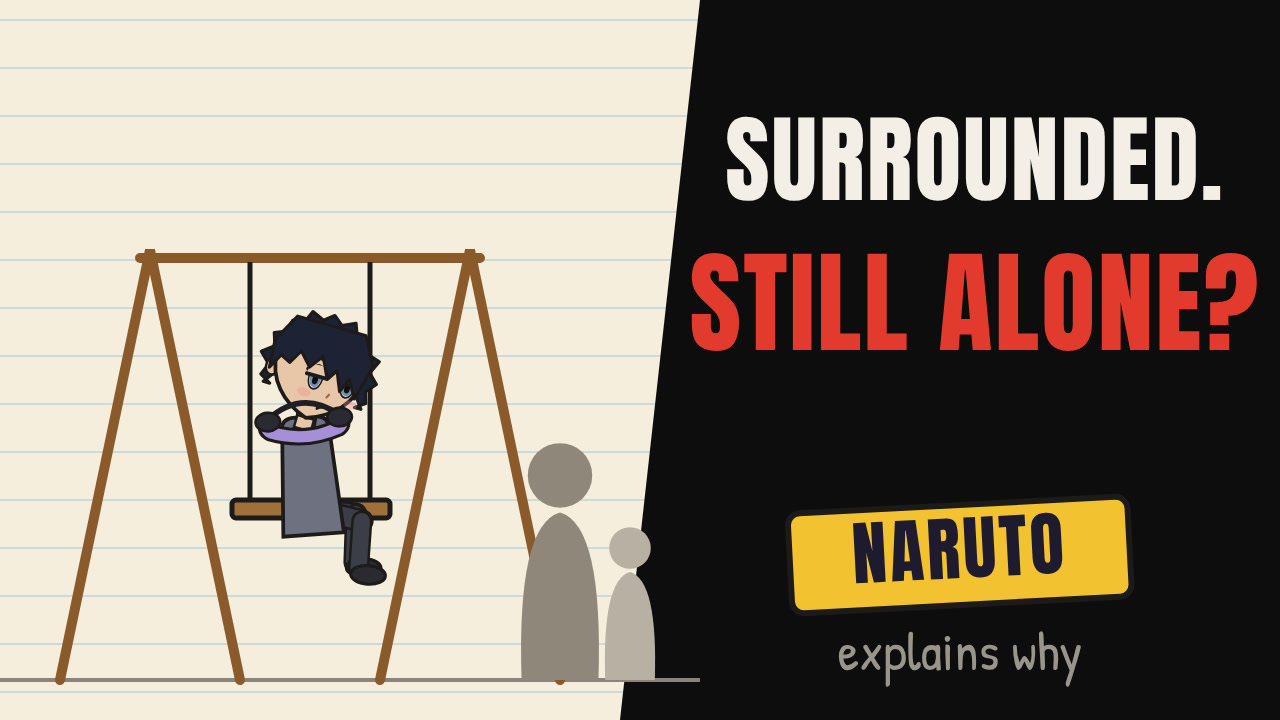
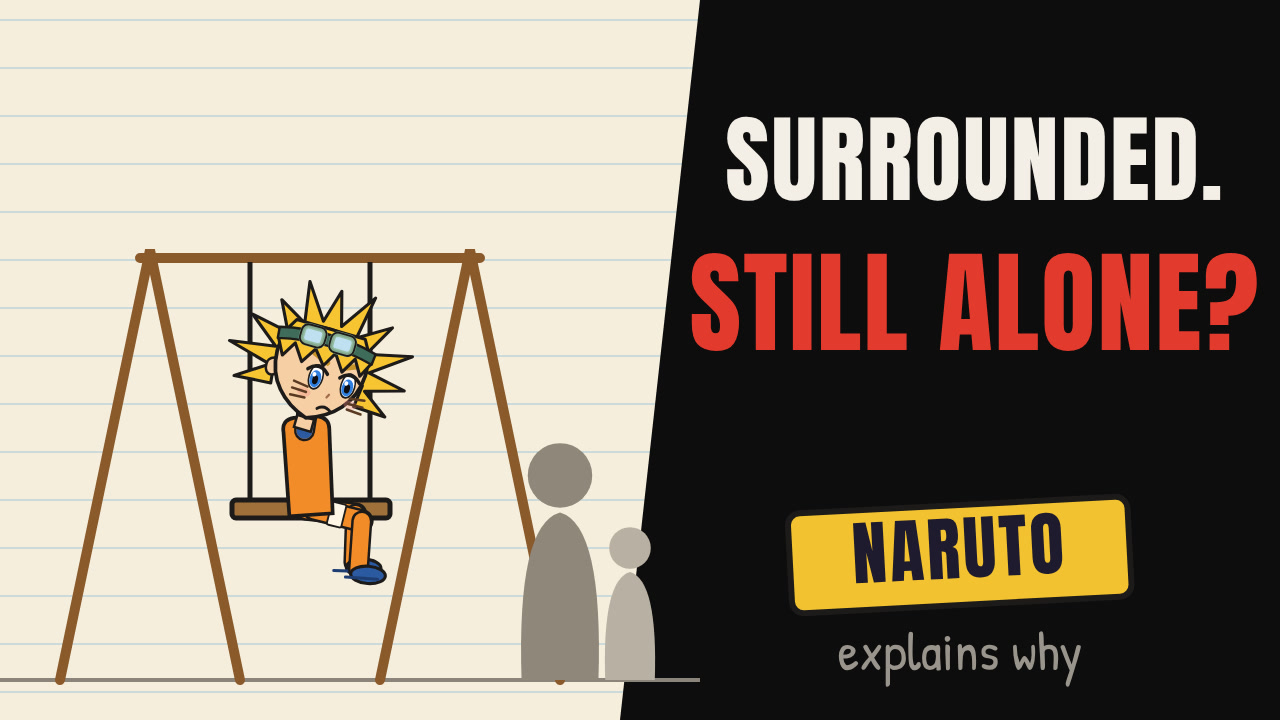
Social Ripple: anime characters for referenced moments, crew for conclusions; Naruto cast + cover
Claude-Session: https://claude.ai/code/session_01BFgAxmP7ubruifvaTKx5Vg

Changed region(s): [[0.1875, 0.3972, 0.3125, 0.825]]

diff --git a/research/meta-muse/social-ripple/shorts/kit/cast.js b/research/meta-muse/social-ripple/shorts/kit/cast.js
@@ -14,6 +14,11 @@
       nia: { skin: "#A8714E", hair: "#231813", hairStyle: "braidbun", top: "#EFE6D6", top2: "#D9CDB8", pants: "#6E8FB8", shoe: "#F4F4F0", eye: "#4A2E1E", glasses: true, lash: true, halfzip: true, wide: true, chunky: true },
       kai: { skin: "#C98E62", hair: "#1E1612", hairStyle: "fade", top: "#7A8B5A", top2: "#66764A", pants: "#2E2E33", shoe: "#F4F4F0", eye: "#5A3A1E", brows: "thick", hood: true, hoodie: true, cargo: true, chunky: true, wide: true },
       mo: { skin: "#E8C7A8", hair: "#2A2230", hairStyle: "curtain", top: "#2A2A30", top2: "#1E1E24", pants: "#3D5A80", shoe: "#F4F4F0", eye: "#6F8FAF", phones: true, tired: true, hood: true, vest: "#8A93A6", wide: true, chunky: true },
+      // anime characters (drawn in our style) for the moments a lesson references them
+      naruto: { skin: "#F6CFA4", hair: "#F7C531", hairStyle: "naruto", top: "#F28C28", top2: "#2C5AA0", pants: "#F28C28", shoe: "#2C5AA0", sole: "#1E3E73", eye: "#2F7FE0", whiskers: true, narutoJacket: true, holster: true, accs: ["goggles", "band"], acc: "goggles", brows: "thick", browCol: "#C9962A" },
+      iruka: { skin: "#D9A679", hair: "#5A3A28", hairStyle: "topknot", top: "#2C3E63", top2: "#22304E", pants: "#2C3E63", shoe: "#2C5AA0", sole: "#1E3E73", eye: "#3A2A1E", noseScar: true, flak: "#6B8E4E", accs: ["band"], acc: "band" },
+      gaara: { skin: "#F3DCC8", hair: "#A8322A", hairStyle: "gaara", top: "#3A2A2E", top2: "#2A1E22", pants: "#3A2A2E", shoe: "#2A2A30", sole: "#1E1E24", eye: "#7FC8B8", rings: true, noBrows: true, kanji: true, sash: true, gourd: true },
+      haku: { skin: "#F8E4D4", hair: "#2A2020", hairStyle: "hakulong", top: "#E8A6B8", top2: "#C97A92", pants: "#8A5A4A", shoe: "#5A3A2A", sole: "#3A2A22", eye: "#5A3A2A", lash: true, coat: true, kimono: true },
       rue: { skin: "#F6D2B4", hair: "#6B3A22", hairStyle: "pony", top: "#F28C6A", top2: "#E07A58", pants: "#7F9CC8", shoe: "#F4F4F0", sole: "#C8A070", eye: "#3E8E5A", freckles: true, bandage: true, puffer: true, wide: true },
     };
     const POSES = {
@@ -36,11 +41,13 @@
       // ---- legs (hip at 0,0; feet at y=+170)
       const legs = [-1, 1].map((d) => { const th = limb(body, d * 24, 0, 80, c.wide ? 36 : 30, c.pants); const sh = limb(th.j, 0, 80, 78, c.wide ? 34 : 26, c.pants);
         if (c.cargo) el("rect", { x: d > 0 ? 8 : -26, y: 30, width: 18, height: 26, rx: 3, fill: c.pants, stroke: "#55555E", "stroke-width": 3 }, th.g);
+        if (c.holster && d > 0) th.g.insertBefore(el("rect", { x: -19, y: 26, width: 38, height: 24, rx: 3, fill: "#FFF6E6", stroke: INK, "stroke-width": 3 }), th.j);
         const shoe = el("ellipse", { cx: d * 6, cy: 86, rx: c.chunky ? 33 : 28, ry: c.chunky ? 18 : 14, fill: c.shoe, stroke: INK, "stroke-width": 5 }, sh.j);
         el("path", { d: `M${d * 6 - (c.chunky ? 31 : 26)},${92} h${c.chunky ? 62 : 52}`, stroke: c.sole || "#CFC6B4", "stroke-width": c.chunky ? 7 : 5, "stroke-linecap": "round" }, sh.j); return { th, sh, d, shoe }; });
       // ---- torso group (pivot at hip)
       const torso = G(body);
       if (c.hood) el("path", { d: "M-46,-150 Q0,-120 46,-150 Q30,-110 0,-108 Q-30,-110 -46,-150 Z", fill: c.top2, stroke: INK, "stroke-width": 5 }, torso);
+      if (c.gourd) { el("ellipse", { cx: 44, cy: -92, rx: 46, ry: 84, fill: "#C9A66B", stroke: INK, "stroke-width": 6, transform: "rotate(18 44 -92)" }, torso); el("ellipse", { cx: 74, cy: -178, rx: 22, ry: 26, fill: "#C9A66B", stroke: INK, "stroke-width": 5 }, torso); el("rect", { x: 64, y: -214, width: 18, height: 16, rx: 3, fill: "#8A5A2B", stroke: INK, "stroke-width": 3 }, torso); }
       const tFront = c.coat ? el("path", { d: "M-60,-130 Q-64,-146 -42,-148 L42,-148 Q64,-146 60,-130 L74,40 L-74,40 Z", fill: c.top, stroke: INK, "stroke-width": 6 }, torso)
         : el("path", { d: "M-58,-128 Q-60,-146 -40,-148 L40,-148 Q60,-146 58,-128 L52,8 L-52,8 Z", fill: c.top, stroke: INK, "stroke-width": 6 }, torso);
       const tSide = el("path", { d: c.coat ? "M-36,-130 Q-38,-148 -18,-150 L22,-150 Q42,-146 40,-128 L52,40 L-46,40 Z" : "M-34,-128 Q-36,-148 -16,-150 L22,-150 Q42,-146 40,-126 L36,8 L-34,8 Z", fill: c.top, stroke: INK, "stroke-width": 6, style: "display:none" }, torso);
@@ -49,10 +56,17 @@
       if (c.halfzip) { el("path", { d: "M-30,-150 Q0,-136 30,-150 L28,-128 Q0,-116 -28,-128 Z", fill: c.top2, stroke: INK, "stroke-width": 4 }, torso); el("path", { d: "M0,-128 V-70", stroke: "#8A847A", "stroke-width": 4 }, torso); el("circle", { cx: 0, cy: -70, r: 5, fill: "#8A847A" }, torso); el("path", { d: "M-50,0 H50", stroke: c.top2, "stroke-width": 9 }, torso); }
       if (c.vest) { el("path", { d: "M-56,-132 Q-40,-150 -18,-142 L-10,6 L-54,6 Z M56,-132 Q40,-150 18,-142 L10,6 L54,6 Z", fill: c.vest, stroke: INK, "stroke-width": 5 }, torso); for (let k = 0; k < 4; k++) el("path", { d: `M-52,${-110 + k * 30} H-14 M14,${-110 + k * 30} H52`, stroke: "#6E7688", "stroke-width": 3 }, torso); }
       if (c.puffer) { for (let k = 0; k < 4; k++) el("path", { d: `M-54,${-118 + k * 28} Q0,${-110 + k * 28} 54,${-118 + k * 28}`, fill: "none", stroke: c.top2, "stroke-width": 4 }, torso); el("path", { d: "M0,-146 V-24", stroke: INK, "stroke-width": 3 }, torso); el("path", { d: "M-50,-24 H50 L52,8 H-52 Z", fill: "#FFF6E6", stroke: INK, "stroke-width": 4 }, torso); }
+      if (c.narutoJacket) { el("path", { d: "M-58,-128 Q-60,-146 -40,-148 L40,-148 Q60,-146 58,-128 L56,-98 Q0,-86 -56,-98 Z", fill: c.top2, stroke: INK, "stroke-width": 5 }, torso); el("path", { d: "M0,-96 V6", stroke: INK, "stroke-width": 3 }, torso);
+        el("path", { d: "M-34,-152 L0,-112 L34,-152 L24,-160 L0,-134 L-24,-160 Z", fill: "#FFFFFF", stroke: INK, "stroke-width": 4, "stroke-linejoin": "round" }, torso); el("circle", { cx: -26, cy: -60, r: 9, fill: "#FFFFFF", stroke: INK, "stroke-width": 3 }, torso); el("path", { d: "M-52,2 H52", stroke: c.top2, "stroke-width": 9 }, torso); }
+      if (c.flak) { el("path", { d: "M-56,-132 Q-40,-150 -14,-146 L-6,6 L-54,6 Z M56,-132 Q40,-150 14,-146 L6,6 L54,6 Z", fill: c.flak, stroke: INK, "stroke-width": 5 }, torso); [-1, 1].forEach((d) => { el("rect", { x: d > 0 ? 16 : -46, y: -112, width: 30, height: 30, rx: 3, fill: c.flak, stroke: INK, "stroke-width": 3 }, torso); el("path", { d: `M${d > 0 ? 16 : -46},-100 h30`, stroke: INK, "stroke-width": 3 }, torso); });
+        el("path", { d: "M-34,-152 Q0,-136 34,-152 L32,-134 Q0,-120 -32,-134 Z", fill: c.flak, stroke: INK, "stroke-width": 4 }, torso); }
+      if (c.sash) { el("path", { d: "M-52,-146 L-26,-150 L54,-12 L40,8 Z", fill: "#F4F0E6", stroke: INK, "stroke-width": 4 }, torso); el("path", { d: "M52,-146 L30,-150 L-52,-30", fill: "none", stroke: "#6B4A2E", "stroke-width": 9, "stroke-linecap": "round" }, torso); }
+      if (c.kimono) { el("path", { d: "M-28,-148 L4,-96 L30,-148", fill: "none", stroke: c.top2, "stroke-width": 10, "stroke-linejoin": "round" }, torso); el("path", { d: "M-66,-34 H66 L68,-8 H-68 Z", fill: "#7A4A3A", stroke: INK, "stroke-width": 4 }, torso); [[-30, 12], [26, 22], [-8, 30]].forEach(([x2, y2]) => el("circle", { cx: x2, cy: y2, r: 7, fill: "none", stroke: c.top2, "stroke-width": 3 }, torso)); }
       const det = el("g", {}); Array.from(torso.childNodes).slice(n0).forEach((nd) => det.appendChild(nd)); torso.appendChild(det);
       // ---- arms (shoulders at ±50,-128)
       const sleeve = c.top;
       const arms = [-1, 1].map((d) => { const ua = limb(torso, d * 50, -128, 72, 26, sleeve); const fa = limb(ua.j, 0, 72, 68, 24, (c.torn && d > 0) ? c.skin : sleeve);
+        if (c.narutoJacket) ua.g.insertBefore(el("path", { d: "M0,0 L0,24", stroke: c.top2, "stroke-width": 26, "stroke-linecap": "round" }), ua.j);
         if (c.torn && d > 0) el("path", { d: "M-14,4 l6,8 l6,-6 l6,8 l6,-6", fill: "none", stroke: INK, "stroke-width": 4 }, fa.g);
         const hand = el("circle", { cx: 0, cy: 74, r: 16, fill: c.skin, stroke: INK, "stroke-width": 5 }, fa.j);
         if (c.wristband && d < 0) { el("rect", { x: -15, y: 52, width: 30, height: 14, rx: 3, fill: "#D8322A", stroke: INK, "stroke-width": 3 }, fa.j); el("path", { d: "M-8,55 v8 M-3,55 v8 M2,55 v8", stroke: "#FFF", "stroke-width": 2 }, fa.j); }
@@ -69,6 +83,10 @@
  if (c.hairStyle === "braidbun") { P(poly(ring(150, 390, 18, 0.99, 1.05, 0.0).concat([[0.95, 0.05], [-0.95, 0.05]])), c.hair, 5); el("circle", { cx: 0, cy: -228 - 1.3 * r, r: 0.52 * r, fill: c.hair, stroke: INK, "stroke-width": 5 }, headG);
         for (let k = 0; k < 6; k++) el("path", { d: `M${(-0.4 + k * 0.16) * r},${-228 - 1.72 * r} q8,${0.42 * r} 0,${0.84 * r}`, fill: "none", stroke: "#4A3A30", "stroke-width": 3 }, headG); }
       if (c.hairStyle === "fade") { P(poly(ring(150, 390, 18, 0.99, 1.04, 0.0).concat([[0.95, 0.05], [-0.95, 0.05]])), c.hair, 5); [[-0.55, -0.85], [-0.3, -1.0], [0, -1.05], [0.3, -1.0], [0.55, -0.85], [-0.15, -0.88], [0.15, -0.88], [-0.42, -0.7], [0.42, -0.7]].forEach(([u, v]) => el("circle", { cx: u * r, cy: -228 + v * r, r: 0.2 * r, fill: c.hair, stroke: INK, "stroke-width": 4 }, headG)); }
+      if (c.hairStyle === "naruto") P(poly(ring(150, 390, 22, 0.98, 1.72, 0.14).concat([[0.9, 0.05], [-0.9, 0.05]])), c.hair, 5);
+      if (c.hairStyle === "gaara") P(poly(ring(150, 390, 26, 0.99, 1.24, 0.08).concat([[0.95, 0.1], [-0.95, 0.1]])), c.hair, 5);
+      if (c.hairStyle === "topknot") { P(poly([[-0.2, -0.95], [-0.5, -1.6], [-0.14, -1.34], [0, -1.82], [0.14, -1.34], [0.5, -1.6], [0.2, -0.95]]), c.hair, 5); P(poly(ring(150, 390, 18, 0.99, 1.04, 0.0).concat([[0.95, 0.05], [-0.95, 0.05]])), c.hair, 5); el("rect", { x: -18, y: -228 - 1.08 * r, width: 36, height: 14, rx: 4, fill: "#C9B48A", stroke: INK, "stroke-width": 3 }, headG); }
+      if (c.hairStyle === "hakulong") P(poly([[-1.0, -0.2], [-1.1, 0.6], [-1.02, 1.5], [-0.6, 1.36], [0.6, 1.36], [1.02, 1.5], [1.1, 0.6], [1.0, -0.2], [0.75, -0.95], [0, -1.12], [-0.75, -0.95]]), c.hair, 5);
       if (c.hairStyle === "curtain") P(poly(ring(150, 390, 20, 1.0, 1.1, 0.0).concat([[1.0, 0.25], [-1.0, 0.25]])), c.hair, 5);
       if (c.hairStyle === "pony") { P(`M${U(0.35, -0.95)} Q${U(1.25, -1.35)} ${U(1.15, -0.4)} Q${U(1.05, 0.4)} ${U(1.3, 0.95)} Q${U(0.8, 0.55)} ${U(0.85, -0.3)} Z`, c.hair, 5); P(poly(ring(150, 390, 18, 0.99, 1.04, 0.0).concat([[0.95, 0.05], [-0.95, 0.05]])), c.hair, 5);
         el("rect", { x: 0.55 * r - 16, y: -228 - 0.98 * r - 10, width: 32, height: 20, rx: 6, fill: "#3E8E5A", stroke: INK, "stroke-width": 3 }, headG); }
@@ -85,6 +103,9 @@
       const f0 = headG.childNodes.length;
       if (c.freckles) [-1, 1].forEach((dd) => [[0.5, 0.42], [0.6, 0.5], [0.42, 0.52]].forEach(([u, v]) => el("circle", { cx: dd * u * r, cy: -228 + v * r, r: 2.6, fill: "#B0603A" }, headG)));
       el("ellipse", { cx: -0.55 * r, cy: -228 + 0.48 * r, rx: 13, ry: 7, fill: "#F08A80", opacity: 0.35 }, headG); el("ellipse", { cx: 0.55 * r, cy: -228 + 0.48 * r, rx: 13, ry: 7, fill: "#F08A80", opacity: 0.35 }, headG);
+      if (c.rings) [-1, 1].forEach((dd) => el("ellipse", { cx: dd * 0.38 * r, cy: -228 + 0.14 * r, rx: 0.28 * r, ry: 0.31 * r, fill: "#1E1A1E" }, headG));
+      if (c.whiskers) for (const dd of [-1, 1]) for (let i = 0; i < 3; i++) el("path", { d: `M${U(dd * 0.5, 0.36 + i * 0.11)} L${U(dd * 0.84, 0.32 + i * 0.14)}`, stroke: "#5A3A22", "stroke-width": 4, "stroke-linecap": "round" }, headG);
+      if (c.noseScar) el("path", { d: `M${U(-0.5, 0.3)} Q${U(0, 0.36)} ${U(0.5, 0.3)}`, fill: "none", stroke: "#8A4A3A", "stroke-width": 5, "stroke-linecap": "round" }, headG);
       // eyes: open set + closed-happy set + tired lids
       const eyesOpen = G(headG), eyesHappy = G(headG, { style: "display:none" }), lids = G(headG, { style: "display:none" });
       for (const d of [-1, 1]) { const ex = d * 0.38, ey = 0.14;
@@ -95,7 +116,7 @@
         if (c.lash) P(`M${U(ex + d * 0.22, ey - 0.16)} l${d * 10},-8`, "none", 5, eyesOpen);
         P(`M${U(ex - 0.2, ey + 0.02)} Q${U(ex, ey - 0.2)} ${U(ex + 0.2, ey + 0.02)}`, "none", 6, eyesHappy);
         P(`M${U(ex - 0.22, ey - 0.03)} L${U(ex + 0.22, ey - 0.03)} L${U(ex + 0.2, ey - 0.25)} L${U(ex - 0.2, ey - 0.25)} Z`, c.skin, 0, lids); P(`M${U(ex - 0.23, ey - 0.03)} L${U(ex + 0.23, ey - 0.03)}`, "none", 6, lids); }
-      const browG = G(headG); const brows = [-1, 1].map((d) => P(`M${U(d * 0.2, -0.3)} L${U(d * 0.56, -0.36)}`, "none", c.brows === "thick" ? 9 : 6, browG));
+      const browG = G(headG); const brows = [-1, 1].map((d) => P(`M${U(d * 0.2, -0.3)} L${U(d * 0.56, -0.36)}`, "none", c.brows === "thick" ? 9 : 6, browG)); if (c.browCol) brows.forEach((b) => b.setAttribute("stroke", c.browCol)); if (c.noBrows) browG.setAttribute("opacity", 0);
       el("path", { d: `M${U(0.02, 0.4)} l-3,5`, stroke: "#A06A4A", "stroke-width": 4, "stroke-linecap": "round" }, headG);
       // mouths
       const MO = { neutral: [`M${U(-0.12, 0.66)} L${U(0.12, 0.66)}`, "none"], smile: [`M${U(-0.22, 0.6)} Q${U(0, 0.78)} ${U(0.22, 0.6)}`, "none"], sad: [`M${U(-0.16, 0.72)} Q${U(0, 0.6)} ${U(0.16, 0.72)}`, "none"],
@@ -114,16 +135,29 @@
       if (c.hairStyle === "shag") P(poly([[-1.0, -0.36], [-0.96, 0.2], [-0.8, -0.1], [-0.6, 0.0], [-0.44, -0.28], [-0.2, -0.02], [0.0, -0.3], [0.2, 0.12], [0.34, -0.1], [0.5, 0.28], [0.62, 0.0], [0.82, 0.34], [1.0, -0.36], [0.7, -0.92], [-0.7, -0.92]]), c.hair, 5);
       if (c.hairStyle === "bob") P(poly([[-1.04, -0.3], [-0.9, -0.16], [-0.5, -0.34], [-0.1, -0.22], [0.3, -0.36], [0.7, -0.2], [1.04, -0.3], [0.7, -0.95], [-0.7, -0.95]]), c.hair, 5);
       if (c.hairStyle === "puff") P(poly([[-0.92, -0.3], [-0.7, -0.44], [-0.4, -0.36], [-0.1, -0.5], [0.2, -0.38], [0.5, -0.48], [0.8, -0.34], [0.92, -0.3], [0.7, -0.9], [-0.7, -0.9]]), c.hair, 5);
+      if (c.hairStyle === "naruto") P(poly([[-0.95, -0.42], [-0.78, -0.1], [-0.6, -0.4], [-0.38, -0.08], [-0.18, -0.4], [0.05, -0.12], [0.22, -0.42], [0.44, -0.1], [0.62, -0.42], [0.8, -0.12], [0.95, -0.42], [0.7, -0.85], [-0.7, -0.85]]), c.hair, 5);
+      if (c.hairStyle === "topknot") P(poly([[-0.92, -0.4], [-0.5, -0.58], [0, -0.64], [0.5, -0.58], [0.92, -0.4], [0.7, -0.9], [-0.7, -0.9]]), c.hair, 5);
+      if (c.hairStyle === "gaara") P(poly([[-0.98, -0.2], [-0.8, -0.12], [-0.66, -0.4], [-0.44, -0.24], [-0.26, -0.5], [-0.06, -0.4], [0.1, -0.64], [0.4, -0.7], [0.7, -0.62], [0.98, -0.2], [0.7, -0.94], [-0.7, -0.94]]), c.hair, 5);
+      if (c.hairStyle === "hakulong") { P(`M${U(-0.02, -0.98)} Q${U(-0.6, -0.9)} ${U(-0.98, -0.2)} L${U(-1.0, 0.95)} L${U(-0.76, 0.9)} Q${U(-0.74, -0.1)} ${U(-0.4, -0.42)} Q${U(-0.15, -0.6)} ${U(-0.02, -0.98)} Z`, c.hair, 5); P(`M${U(0.02, -0.98)} Q${U(0.6, -0.9)} ${U(0.98, -0.2)} L${U(1.0, 0.95)} L${U(0.76, 0.9)} Q${U(0.74, -0.1)} ${U(0.4, -0.42)} Q${U(0.15, -0.6)} ${U(0.02, -0.98)} Z`, c.hair, 5); }
+      if (c.kanji) { const kt = el("text", { x: 0.36 * r, y: -228 - 0.3 * r, "text-anchor": "middle", "font-family": "WenQuanYi Zen Hei, sans-serif", "font-size": 0.34 * r, "font-weight": 700, fill: "#B8322A" }, headG); kt.textContent = "愛"; }
+      const accs = {};
+      for (const an of (c.accs || [])) { const ag = G(headG, { style: "display:none" }); accs[an] = ag; const col = an === "band" ? "#2C3E73" : "#3F6B5A";
+        if (an === "band") P(`M${U(0.95, -0.56)} q${0.26 * r},${0.1 * r} ${0.42 * r},${0.46 * r} M${U(0.95, -0.48)} q${0.18 * r},${0.14 * r} ${0.3 * r},${0.52 * r}`, "none", 9, ag).setAttribute("stroke", col);
+        P(`M${U(-0.98, -0.62)} Q${U(0, -0.86)} ${U(0.98, -0.62)} L${U(0.96, -0.4)} Q${U(0, -0.64)} ${U(-0.96, -0.4)} Z`, col, 4, ag);
+        if (an === "band") { P(`M${U(-0.34, -0.8)} L${U(0.34, -0.8)} L${U(0.32, -0.46)} L${U(-0.32, -0.46)} Z`, "#C9CED6", 4, ag); const sp = []; for (let i = 0; i <= 24; i++) { const a = i / 24 * Math.PI * 2.6, rr = 0.012 + i / 24 * 0.1; sp.push(U(Math.cos(a) * rr * 1.3, -0.63 + Math.sin(a) * rr)); }
+          el("path", { d: `M${sp.join(" L")} L${U(-0.2, -0.5)} M${U(-0.11, -0.53)} L${U(-0.2, -0.5)} L${U(-0.15, -0.6)}`, fill: "none", stroke: "#4A4F5A", "stroke-width": 3.5, "stroke-linecap": "round" }, ag); }
+        else [-1, 1].forEach((dd) => { el("rect", { x: dd * 0.3 * r - 0.22 * r, y: -228 - 0.8 * r, width: 0.44 * r, height: 0.34 * r, rx: 9, fill: "#BFE0F0", stroke: INK, "stroke-width": 4 }, ag); el("rect", { x: dd * 0.3 * r - 0.22 * r, y: -228 - 0.8 * r, width: 0.44 * r, height: 0.34 * r, rx: 9, fill: "none", stroke: "#8FB89A", "stroke-width": 9, "stroke-opacity": 0.9 }, ag); el("rect", { x: dd * 0.3 * r - 0.25 * r, y: -228 - 0.83 * r, width: 0.5 * r, height: 0.4 * r, rx: 11, fill: "none", stroke: INK, "stroke-width": 3 }, ag); }); }
       if (c.clips) [[-0.62, -0.42], [-0.44, -0.5]].forEach(([u, v]) => el("rect", { x: u * r - 14, y: -228 + v * r - 4, width: 28, height: 8, rx: 3, fill: "#F2C230", stroke: INK, "stroke-width": 3, transform: `rotate(-20 ${u * r} ${-228 + v * r})` }, headG));
       const glassG = G(headG);
       if (c.glasses) { [-1, 1].forEach((d) => el("circle", { cx: d * 0.38 * r, cy: -228 + 0.14 * r, r: 0.27 * r, fill: "#FFFFFF", "fill-opacity": 0.12, stroke: "#3A2A22", "stroke-width": 6 }, glassG)); el("path", { d: `M${U(-0.11, 0.1)} Q${U(0, 0.04)} ${U(0.11, 0.1)}`, fill: "none", stroke: "#3A2A22", "stroke-width": 6 }, glassG); }
       // ---------- animation state ----------
-      const keys = [{ t: -1, p: Object.assign({}, POSES.stand), dur: 0 }], moves = [{ t: -1, x, dur: 0 }], faces = [[-1, "neutral"]], talks = [], views = [[-1, "front", 1]]; let curView = "";
+      const keys = [{ t: -1, p: Object.assign({}, POSES.stand), dur: 0 }], moves = [{ t: -1, x, dur: 0 }], faces = [[-1, "neutral"]], talks = [], views = [[-1, "front", 1]], accKeys = [[-1, c.acc || "none"]]; let curView = "";
       const h = { root, name, at, x, y, s,
         key(t, pose, dur = 0.35) { keys.push({ t, p: typeof pose === "string" ? POSES[pose] : pose, dur }); return h; },
         move(t, nx, dur = 1) { moves.push({ t, x: nx, dur }); return h; },
         face(t, e) { faces.push([t, e]); return h; },
         view(t, v, dir = 1) { views.push([t, v, dir]); return h; },
+        acc(t, a) { accKeys.push([t, a]); return h; },
         say(id) { const st = window.DT[id][0]; window.WORDS[id].forEach((w) => talks.push([st + w.start, st + w.end])); return h; } };
       const poseAt = (t) => { let cur = Object.assign({}, POSES.stand); for (const k of keys) { if (t < k.t) break; const u = k.dur ? ease(clamp((t - k.t) / k.dur, 0, 1)) : 1, next = Object.assign({}, cur, k.p); for (const j of JOINTS) cur[j] = (cur[j] ?? 0) + ((next[j] ?? 0) - (cur[j] ?? 0)) * u; } return cur; };
       const xAt = (t) => { let px = moves[0].x, walking = 0; for (const m of moves) { if (t < m.t) break; const u = clamp((t - m.t) / m.dur, 0, 1); if (u < 1) walking = 1; px = px + (m.x - px) * u; } return [px, walking]; };
@@ -135,6 +169,7 @@
           earR.style.display = side ? "none" : "inline"; const ft = side ? `translate(${0.3 * r},0) translate(0,-228) scale(0.86,1) translate(0,228)` : ""; faceG.setAttribute("transform", ft); glassG.setAttribute("transform", ft);
           body.setAttribute("transform", dir < 0 ? "scale(-1,1)" : ""); legs.forEach((lg) => { lg.th.px = side ? lg.d * 6 : lg.d * 24; lg.shoe.setAttribute("cx", side ? 16 : lg.d * 6); });
           arms.forEach((a) => { a.ua.px = side ? 0 : a.d * 50; }); const far = arms[1].ua.g; if (side) torso.insertBefore(far, torso.firstChild); else torso.insertBefore(far, headG); }
+        let ak = accKeys[0][1]; for (const q of accKeys) if (t >= q[0]) ak = q[1]; for (const an in accs) accs[an].style.display = an === ak ? "inline" : "none";
         const p = poseAt(t), [px, walking] = xAt(t), wk = walking ? Math.sin(t * 11) : 0, breath = Math.sin(t * 2.4 + x) * 1.5;
         const lift = p.lift + (walking ? -Math.abs(Math.cos(t * 11)) * 6 : 0);
         root.setAttribute("transform", `translate(${px.toFixed(1)},${(y - 170 * s).toFixed(1)}) scale(${sc.toFixed(3)}) rotate(${p.root.toFixed(2)},0,170) translate(${(p.side || 0).toFixed(1)},${lift.toFixed(1)})`);

diff --git a/research/meta-muse/social-ripple/cast/cast.html b/research/meta-muse/social-ripple/cast/cast.html
@@ -11,7 +11,9 @@ document.fonts.ready.then(() => {
   const g = el("g", {}, svg), C = CAST(I), mode = new URLSearchParams(location.search).get("n") || "sheet", hs = [];
   const lab = (t, x, y) => { const e = el("text", { x, y, "text-anchor": "middle", "font-family": "Caveat", "font-weight": 700, "font-size": 70, fill: INKC }, svg); e.textContent = t; };
   if (mode === "sheet") {
-    [["nia", 300, "wave", "smile"], ["kai", 780, "fist", "determined"], ["mo", 1260, "pockets", "neutral"], ["rue", 1700, "cheer", "grin"]].forEach(([n, x, p, f]) => { const h = C.make(g, n, x, 960, 1.0, 0); h.key(0, p, 0).face(0, f); hs.push(h); lab(n[0].toUpperCase() + n.slice(1), x, 1050); });
+    [["nia", 300, "wave", "smile"], ["kai", 780, "fist", "determined"], ["mo", 1260, "stand", "neutral"], ["rue", 1700, "cheer", "grin"]].forEach(([n, x, p, f]) => { const h = C.make(g, n, x, 960, 1.0, 0); h.key(0, p, 0).face(0, f); hs.push(h); lab(n[0].toUpperCase() + n.slice(1), x, 1050); });
+  } else if (mode === "anime") {
+    [["naruto", 260, "fist", "grin", "goggles"], ["naruto", 660, "stand", "smile", "band"], ["iruka", 1060, "stand", "smile", "band"], ["gaara", 1440, "stand", "neutral", ""], ["haku", 1760, "stand", "smile", ""]].forEach(([n, x, p, f, a]) => { const h = C.make(g, n, x, 940, n === "iruka" ? 1.05 : 0.95, 0); h.key(0, p, 0).face(0, f); if (a) h.acc(0, a); hs.push(h); lab(n[0].toUpperCase() + n.slice(1), x, 1040); });
   } else {
     const a = C.make(g, "kai", 500, 900, 1.0, 0); a.key(0, "pushUp", 0).face(0, "determined"); hs.push(a);
     const b = C.make(g, "kai", 1300, 900, 1.0, 0); b.key(0, "pushDown", 0).face(0, "strain"); hs.push(b);

diff --git a/research/meta-muse/social-ripple/anime-ep02-naruto-loneliness/nr-thumb.html b/research/meta-muse/social-ripple/anime-ep02-naruto-loneliness/nr-thumb.html
@@ -12,7 +12,7 @@ document.fonts.ready.then(() => {
   const FL = 680; el("line", { x1: 0, x2: 700, y1: FL, y2: FL, stroke: "#8A847A", "stroke-width": 4 }, svg);
   el("path", { d: `M60,${FL} L150,250 L240,${FL} M380,${FL} L470,250 L560,${FL} M140,258 H480`, fill: "none", stroke: "#8A5A2B", "stroke-width": 10, "stroke-linecap": "round" }, svg);
   el("path", { d: "M250,262 V505 M370,262 V505", stroke: INKC, "stroke-width": 5 }, svg); el("rect", { x: 232, y: 500, width: 158, height: 18, rx: 4, fill: "#A0703A", stroke: INKC, "stroke-width": 5 }, svg);
-  const g = el("g", {}, svg), C = CAST(I); const mo = C.make(g, "mo", 310, 505 + 170 * 0.62 - 74 * 0.62 + 4, 0.62, 0); mo.view(0, "side", 1).key(0, "sit", 0).face(0, "sad").key(0, { head: 20 }, 0); mo.update(5);
+  const g = el("g", {}, svg), C = CAST(I); const mo = C.make(g, "naruto", 310, 505 + 170 * 0.62 - 74 * 0.62 + 4, 0.62, 0); mo.view(0, "side", 1).key(0, "sit", 0).face(0, "sad").key(0, { head: 20 }, 0); mo.update(5);
   const P = (x, s, col) => { el("circle", { cx: x, cy: FL - 330 * s, r: 52 * s, fill: col }, svg); el("path", { d: `M${x - 62 * s},${FL} Q${x - 70 * s},${FL - 250 * s} ${x},${FL - 270 * s} Q${x + 70 * s},${FL - 250 * s} ${x + 62 * s},${FL} Z`, fill: col }, svg); };
   [[560, 0.62, "#8F877A"], [630, 0.4, "#B8B0A2"]].forEach(([x, s, c]) => P(x, s, c));
   const T = (txt, x, y, size, fill, o = {}) => { const t = el("text", { x, y, "font-family": o.font || "Anton", "font-size": size, fill, "text-anchor": "middle", "letter-spacing": o.ls ?? 2 }, svg); t.textContent = txt; };

diff --git a/research/meta-muse/social-ripple/CONTENT-STANDARDS.md b/research/meta-muse/social-ripple/CONTENT-STANDARDS.md
@@ -8,7 +8,7 @@ Working assumption: the algorithm shows people what they're thinking about. Ever
 
 ## 2. The arc (every episode and every Short)
 1. **Meet the thought:** in the viewer's inner voice ("Why do I always quit?").
-2. **Mirror it in the anime:** a moment from an anime they love where a character faces the same thought (told through narration; acted out by our own cast), so they're not alone with it.
+2. **Mirror it in the anime:** a moment where a character they love faces the same thought, with that character on screen, so they're not alone with it.
 3. **Reframe with real evidence:** what the research actually shows, limits included.
 4. **Land the core truth:** one sentence per lesson, given its own moment.
 5. **Hand them a better next thought:** one small, doable step.
@@ -17,7 +17,7 @@ Working assumption: the algorithm shows people what they're thinking about. Ever
 ## 3. Depth: what matters most
 - Before writing, state each lesson's **core truth in one sentence**, and why it matters to the viewer's life. Every scene serves that sentence.
 - **Fewer lessons, deeper:** three that land beat five that skim. Each gets its "so what".
-- The core line gets **its own moment:** poster card, a beat of silence, our character feeling it.
+- The core line gets **its own moment:** poster card, a beat of silence, the character feeling it.
 - **End each lesson on the truth, not the statistic.** Close the episode on one sentence that ties it together.
 
 ## 4. Topics and words
@@ -28,7 +28,7 @@ Working assumption: the algorithm shows people what they're thinking about. Ever
 
 ## 5. Covers and first frames
 - Formula: **relatable situation + body sensation (a felt "ouch") + mystery + a specific number**.
-- **Our own cast member** sits *inside* an everyday moment the viewer has lived (not just a pose); the anime name is carried by the big text.
+- The anime character sits *inside* an everyday moment the viewer has lived (not just a pose), with the anime name in big text.
 - **A Short's first frame = its cover:** fully drawn, big text, no blank paper.
 
 ## 6. Camera dynamics: stimulated from start to finish
@@ -41,17 +41,17 @@ Working assumption: the algorithm shows people what they're thinking about. Ever
 - **Match the energy:** fast and punchy for hooks and battles; slower, closer and quieter for the core truth.
 - **Shorts:** a move every 1.5–2.5 seconds.
 
-## 6b. Characters: our own cast, fully alive
-- **Original characters only.** We never draw, trace, animate or rig the anime's characters (no likenesses, look-alikes or "styled versions"), and we never use official art, screenshots or footage. The anime appears through narration, names, episode numbers and paraphrased moments.
-- **A recurring Social Ripple cast**, designed by us, with distinct, memorable looks and personalities (host Nia plus a few regulars), so they become the channel's face across every anime we cover.
-- **Polished and rigged:** well-drawn characters with separate parts (head, mouths, eyes, torso, arms, hands, legs, props), rigged for animation.
-- **Always alive:** breathing, blinking, a mouth that moves with the voice, small weight shifts. Never a frozen pose.
-- **Motion correlates with the narration:** our cast acts out the situation being described (push-ups when it says push-ups, stepping forward on "stays behind"), reacts to on-screen events (looks at a pop-up window, flinches at a slam) and shifts expression on emotional lines.
-- **Camera and character move together:** a punch-in lands with the action, and shake comes with the impact.
+## 6b. Characters: who appears when
+- **Anime characters when the lesson references them.** When the narration is telling an anime moment, that anime's characters are on screen, drawn and animated in our own style with accurate signature details (hair, eyes, outfit, marks, props, and canon touches such as Naruto's goggles before he earns the headband). Check every detail against references first; a fan must never think "that doesn't look like him".
+- **The Social Ripple crew for everything else:** hosting, the viewer's own situations, study explanations, conclusions, summaries, the small step and the outro. Nia, Kai, Mo and Rue have common hairstyles and current streetwear so viewers see themselves in them.
+- **Story-specific extras** are created per episode as needed.
+- **All drawn by us:** no official art, screenshots, footage, logos or soundtrack. Plot is told in our own words; no dialogue quoted beyond a few words.
+- **Rigged and always alive:** breathing, blinking, mouths that move with the voice, side view for walking and floor moves, correct anatomy (hands plant, joints bend the right way).
+- **Motion correlates with the narration:** characters act out what's said, react to on-screen events and shift expression on emotional lines; camera and character move together.
 
 ## 7. Shorts
 - Hook line under 2 seconds; 20–30 seconds; one idea; last line loops into the first.
-- One of our cast in every Short, plus the anime name on screen; each Short voices one thought, and the long video is the full answer.
+- The referenced anime character in every Short, plus the anime name on screen; each Short voices one thought, and the long video is the full answer.
 
 ## 8. Truth and care (guardrails)
 - **Every claim checked against the original paper** (or the best primary source available), with limits stated honestly; never more than a study found. Anime plot facts checked too (episode numbers).
@@ -60,9 +60,9 @@ Working assumption: the algorithm shows people what they're thinking about. Ever
 - **Heavy topics** (loneliness, regret, grief, self-worth): a gentle "talk to someone you trust" line in the video, plus a support resource in the description.
 
 ## 9. Look, sound and rights
-- **Our own drawings and our own characters only:** ink-notebook style, poster cards, the Social Ripple cast. No anime characters (or look-alikes), official art, screenshots, footage, logos or soundtrack.
+- **Everything drawn by us:** ink-notebook style, poster cards, the Social Ripple crew, and our own drawings of the anime characters. No official art, screenshots, footage, logos or soundtrack.
 - Narration: Nia (Kokoro af_heart). Music and sound: original. Loudness −14 LUFS. Captions on screen.
-- Credit the anime's creators in the description; it's commentary with original characters and drawings.
+- Credit the anime's creators in the description; it's commentary with our own drawings.
 
 ## 10. Delivery
 - Upload info (title, alternatives, description with sources and chapters, tags, settings, pinned comment) **in chat**.
@@ -72,12 +72,12 @@ Working assumption: the algorithm shows people what they're thinking about. Ever
 
 ## Pre-publish checklist (all must be YES)
 - [ ] Opens on the viewer's thought, in their inner voice?
-- [ ] An anime moment (told, not drawn) mirrors that thought?
+- [ ] An anime moment mirrors that thought, with its characters on screen?
 - [ ] Every claim verified against a primary source, limits stated?
 - [ ] Each lesson has a one-sentence core truth that gets its own moment?
 - [ ] Ends on a better next thought + a comment prompt asking for their version?
 - [ ] Cover = relatable situation + body sensation + mystery + specific number?
-- [ ] Only our own cast on screen (no anime characters or look-alikes); always alive; actions matching the narration?
+- [ ] Anime characters when referenced (details checked), crew for conclusions; always alive; correct anatomy; actions matching the narration?
 - [ ] Camera never still; new move at least every ~4 s (1.5–2.5 s in Shorts); punch-ins on key words; push-in on the core truth?
 - [ ] (Shorts) first frame = cover, hook < 2 s, 20–30 s, loops?
 - [ ] No shame or fear-bait; suggestions labelled as ours; care line on heavy topics?

diff --git a/research/meta-muse/social-ripple/anime-ep02-naruto-loneliness/UPLOAD-KIT.md b/research/meta-muse/social-ripple/anime-ep02-naruto-loneliness/UPLOAD-KIT.md
@@ -35,7 +35,7 @@ Research in this video:
 • Masi, Chen, Hawkley & Cacioppo (2011). A meta-analysis of interventions to reduce loneliness. Personality and Social Psychology Review. (50 studies; small overall effects; addressing negative social thoughts looked most promising, based on few studies.)
 • Epley & Schroeder (2014). Mistakenly seeking solitude. Journal of Experimental Psychology: General. (Commuters who talked to a stranger had a more pleasant ride.)
 
-"Send one message this week" is our suggestion, not a study finding. Naruto is by Masashi Kishimoto, anime by Studio Pierrot. This is an original animated commentary: the story is told in our own words and all characters on screen are our own (no footage or official art). Music and sound: original.
+"Send one message this week" is our suggestion, not a study finding. Naruto is by Masashi Kishimoto, anime by Studio Pierrot. This is an original animated commentary: the story is told in our own words with our own drawings (no footage or official art). Music and sound: original.
 
 #Naruto #Loneliness #Psychology #AnimeLifeLessons #SocialRipple
 ```

diff --git a/research/meta-muse/social-ripple/anime/SLATE.md b/research/meta-muse/social-ripple/anime/SLATE.md
@@ -1,7 +1,7 @@
 # Social Ripple: anime life lessons (new direction)
 
 Format: one big moment from a popular anime + the real psychology behind it. Every study is checked against the primary paper before scripting; anime plot facts are checked too.
-Look: our own ink-notebook drawings and our own original cast acting out each situation; the anime is told through narration and names (no drawings of its characters, no official art, screenshots, footage, logos or music). Poster cards for big moments.
+Look: our own ink-notebook drawings. Anime characters (drawn by us) appear when a lesson references them; the Social Ripple crew handles hosting, viewer situations, conclusions and summaries. No official art, screenshots, footage, logos or music. Poster cards for big moments.
 
 | # | Anime | Moment | Lesson | Lead studies to verify |
 |---|---|---|---|---|

diff --git a/research/meta-muse/social-ripple/cast/CAST.md b/research/meta-muse/social-ripple/cast/CAST.md
@@ -9,4 +9,4 @@ All four are our own designs, rigged in `../shorts/kit/cast.js` (joints, poses, 
 | **Mo** | The quiet one who feels left out | Middle-part curtain hair | Black hoodie under a grey puffer vest, baggy jeans, headphones round the neck |
 | **Rue** | The loyal friend who shows up | Sleek high ponytail, claw clip | Cropped coral puffer over a white tee, light-wash baggy jeans, low-profile sneakers |
 
-Per-story characters: when an episode needs a specific role (the shunned kid, the mentor, the rival), we design an original character for that story, clearly distinct from the anime's designs.
+Anime characters: when a lesson references an anime moment, that anime's characters appear, drawn by us on the same rig (so far: Naruto with goggles/headband, Iruka, Gaara, Haku). The crew handles hosting, viewer situations, conclusions and summaries.
